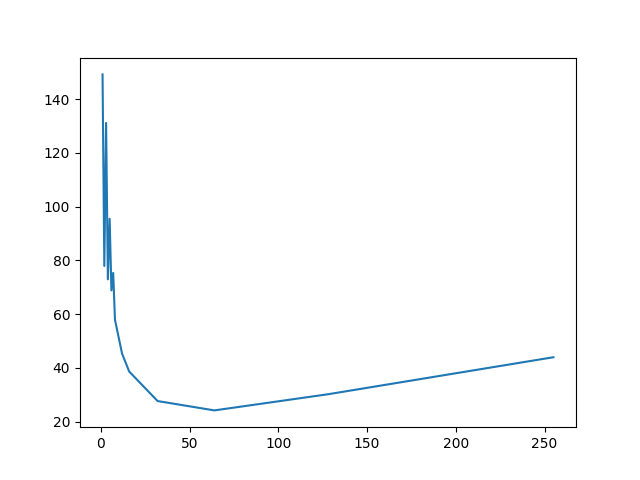
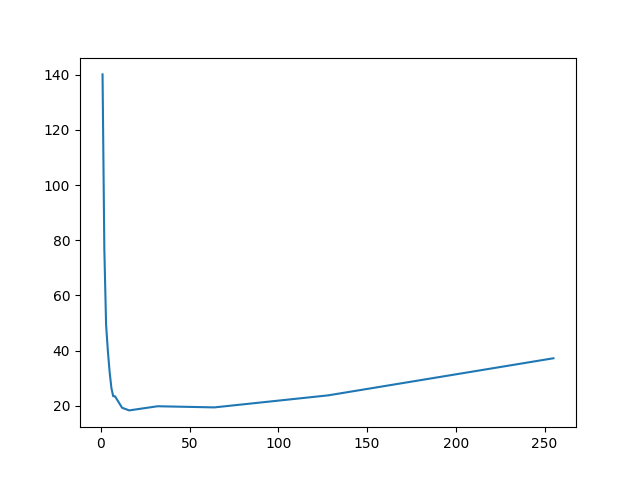
added interleaved algorithm for 7x performance

diff --git a/mandelbrot_set/scripts/plot_benchmark.py b/mandelbrot_set/scripts/plot_benchmark.py
@@ -3,7 +3,14 @@ import matplotlib.pyplot as plt
 import matplotlib.text as txt
 
 x = [1,2,3,4,5,6,7,8,12,16,32,64,128,255]
-y = [149.218, 77.942, 131.177, 72.974, 95.498, 68.850, 75.378, 57.926, 45.324, 38.684, 27.692, 24.212, 30.221, 43.996]
+y = [140.068, 76.910, 49.342, 39.836, 32.187, 26.412, 23.479, 23.473, 19.308, 18.344, 19.845, 19.434, 23.785, 37.232]
+speedup = list(map(lambda t: y[0]/t, y))
+
+for i in range(len(x)) :
+    print(f"- Time to compute with {x[i]} threads: {y[i]}ms ({speedup[i]:.3f})")
+
+
+
 
 #%%
 plt.plot(x, y)
@@ -11,11 +18,11 @@ plt.savefig("./mandelbrot_set/scripts/render.png")
 
 plt.close()
 plt.figure(figsize= (10, 5))
-plt.title("Execution Speedup")
+plt.title("Execution Speedup (Interleaved)")
 plt.xlabel("Number of threads")
 plt.ylabel("Speedup multiplier (from single thread)")
 plt.plot(x, list(map(lambda t: y[0]/t, y)))
-plt.plot(64, 149.218/24.212, 'r*', ms=10)
-plt.text(x = 64, y = 5.8, s="64 threads, 6.1x performance", size = 'x-large', weight = 'bold')
+plt.plot(16, 140.068/18.344, 'r*', ms=10)
+plt.text(x = 16, y = 7, s="16 threads, 7.6xx performance", size = 'x-large', weight = 'bold')
 plt.grid(True)
-plt.savefig("./mandelbrot_set/scripts/execution-speedup.png")
+plt.savefig("./mandelbrot_set/scripts/execution-speedup-interleaved.png")

diff --git a/mandelbrot_set/Benchmarks.md b/mandelbrot_set/Benchmarks.md
@@ -3,6 +3,7 @@
 - AMD Ryzen 7 7840HS, 8-core, 16-threads 
 
 ## Performace Highlights:
+Without interleaving:
 - Time to compute with 1 threads: 149.218 ms (1.000x) 
 - Time to compute with 2 threads: 77.942 ms (1.914x)
 - Time to compute with 3 threads: 131.177 ms (1.138x)
@@ -18,9 +19,27 @@
 - Time to compute with 128 threads: 30.221 ms (4.938x)
 - Time to compute with 255 threads: 43.996 ms (3.392 x)
 
+With interleaving:
+- Time to compute with 1 threads: 140.068ms (1.000)
+- Time to compute with 2 threads: 76.91ms (1.821)
+- Time to compute with 3 threads: 49.342ms (2.839)
+- Time to compute with 4 threads: 39.836ms (3.516)
+- Time to compute with 5 threads: 32.187ms (4.352)
+- Time to compute with 6 threads: 26.412ms (5.303)
+- Time to compute with 7 threads: 23.479ms (5.966)
+- Time to compute with 8 threads: 23.473ms (5.967)
+- Time to compute with 12 threads: 19.308ms (7.254)
+- Time to compute with 16 threads: 18.344ms (7.636)
+- Time to compute with 32 threads: 19.845ms (7.058)
+- Time to compute with 64 threads: 19.434ms (7.207)
+- Time to compute with 128 threads: 23.785ms (5.889)
+- Time to compute with 255 threads: 37.232ms (3.762)
+
 ### Execution Speedup
 ![alt text](image.png)
+![alt_text](./scripts/execution-speedup-interleaved-16.png)
 ![alt_text](./scripts/execution-speedup.png)
+![alt_text](./scripts/execution-speedup-interleaved.png)
 
 
 ## Debug Log
